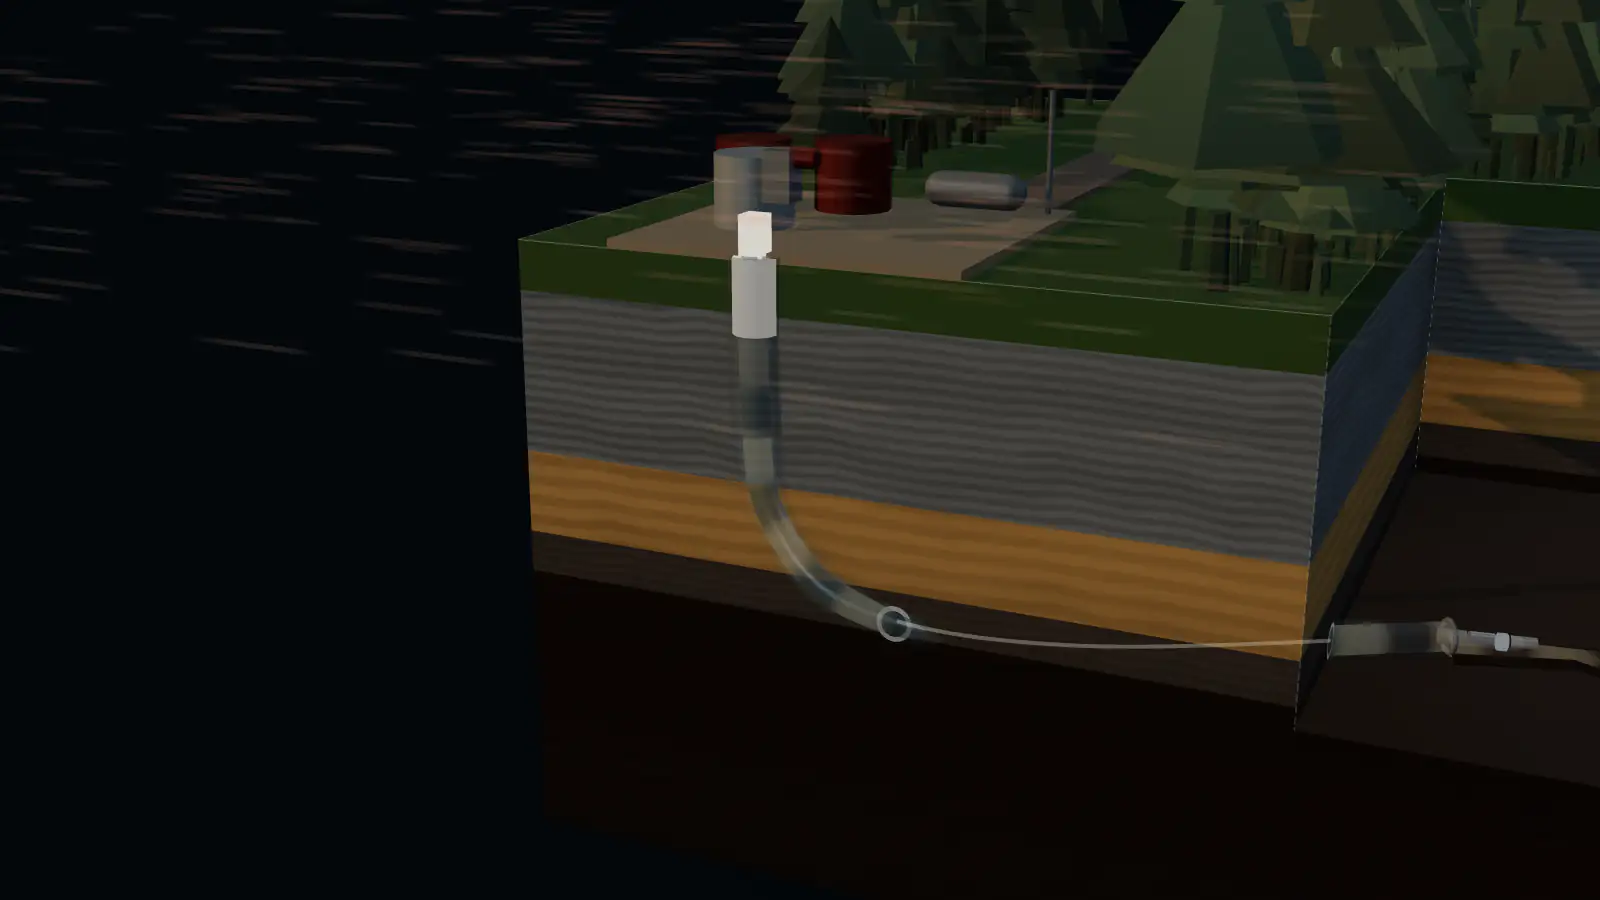
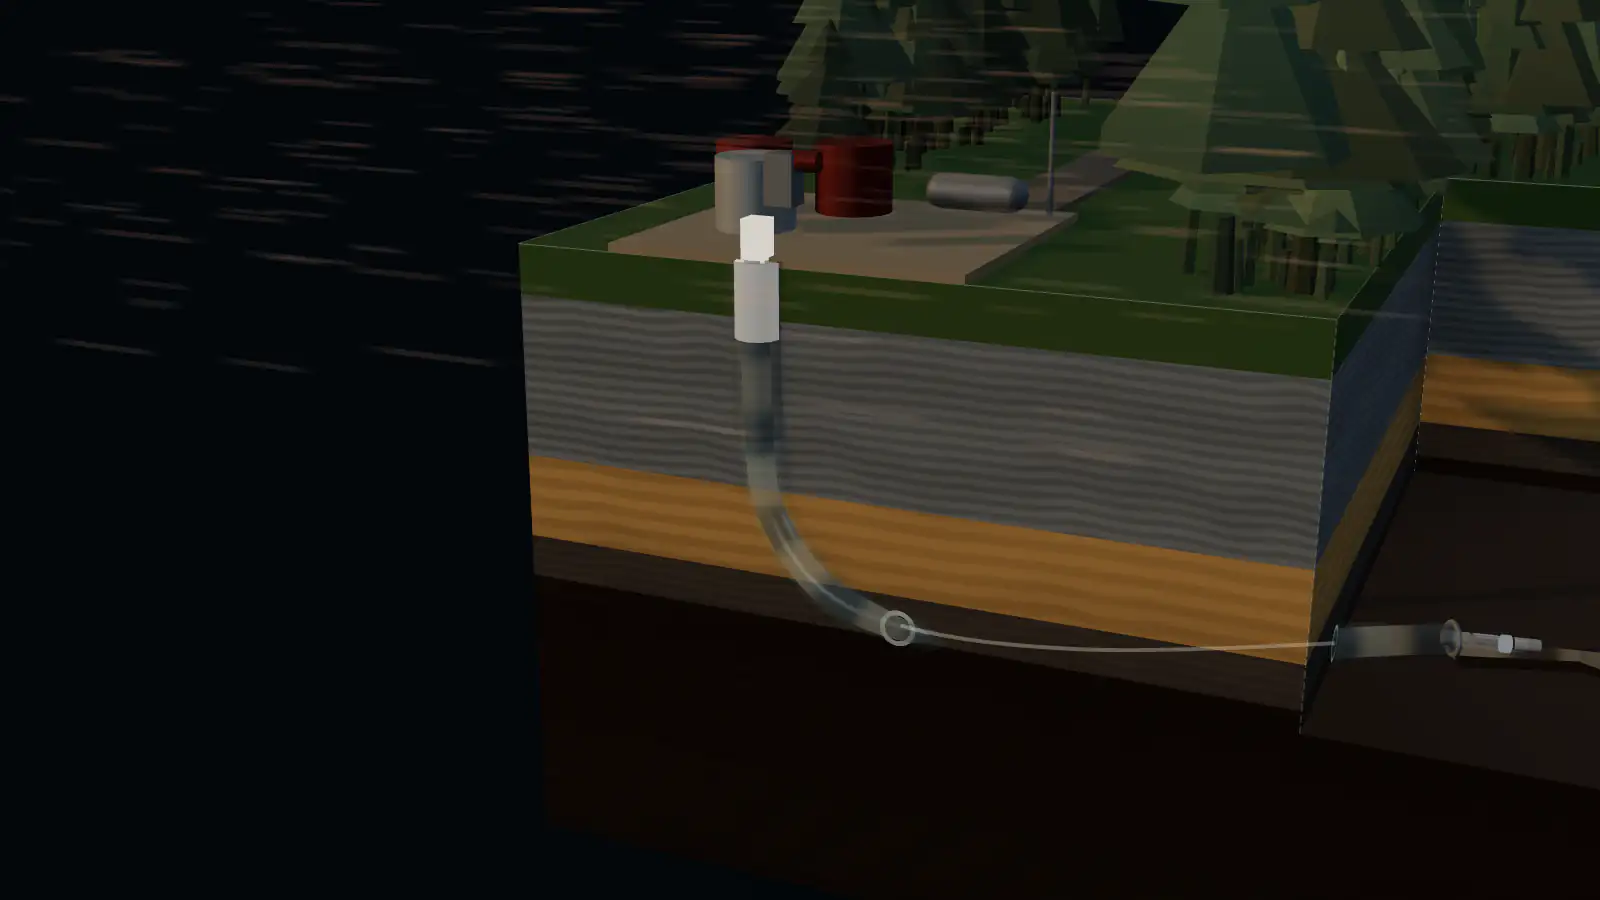
fix(world): round-7 — copy washes fade to zero inside their own box (the radial's ending shape was still 0.3 at the edge), Close the Circuit works on the reduced-motion path (DOM state machine, world twins take over when it arrives), the one-click CTA appears on the stills path, and coupling is hone

diff --git a/src/styles/world.css b/src/styles/world.css
@@ -58,9 +58,11 @@ html.world-on .contact-grid > div::before {
   inset: -40px -180px -56px -48px;
   z-index: -1;
   border-radius: 0;
-  background:
-    linear-gradient(to right, rgba(3, 7, 11, 0.62) 0, rgba(3, 7, 11, 0.6) 55%, rgba(3, 7, 11, 0) 100%),
-    linear-gradient(to bottom, rgba(3, 7, 11, 0) 0, rgba(3, 7, 11, 0.32) 12%, rgba(3, 7, 11, 0.32) 84%, rgba(3, 7, 11, 0) 100%);
+  /* ONE radial that fades in every direction. Two stacked linear gradients looked feathered on the axis each one
+     ran along, but the vertical layer carried flat alpha to the box's right edge — a 14–25 unit luminance step in
+     one pixel, straight down the render (round 7). A radial has no edge to step at. */
+  background: radial-gradient(72% 88% at 26% 50%,
+    rgba(3, 7, 11, 0.7) 0%, rgba(3, 7, 11, 0.6) 45%, rgba(3, 7, 11, 0.22) 78%, rgba(3, 7, 11, 0) 100%);
   -webkit-backdrop-filter: none;
   backdrop-filter: none;
 }
@@ -179,8 +181,9 @@ html.world-on .site-footer { padding-top: 28px; padding-bottom: 28px; }
 /* Header "Check your well fit": appears once the header has scrolled (desktop), hard-cut arrival at #contact. */
 .nav-fit { display: none; }
 @media (min-width: 1101px) {
-  html.world-on .site-header[data-scrolled] .nav-fit { display: inline-flex; align-items: center; gap: 8px; margin-right: 14px; padding: 9px 14px; border: 1px solid var(--ember); border-radius: 999px; color: var(--ember); font: 600 12px/1 "IBM Plex Mono", ui-monospace, monospace; letter-spacing: 0.08em; text-transform: uppercase; text-decoration: none; transition: background 200ms ease, color 200ms ease; }
-  html.world-on .site-header[data-scrolled] .nav-fit:hover, html.world-on .site-header[data-scrolled] .nav-fit:focus-visible { background: var(--ember); color: var(--void); outline: none; }
+  html.world-on .site-header[data-scrolled] .nav-fit, html.stills-on .site-header[data-scrolled] .nav-fit { display: inline-flex; align-items: center; gap: 8px; margin-right: 14px; padding: 9px 14px; border: 1px solid var(--ember); border-radius: 999px; color: var(--ember); font: 600 12px/1 "IBM Plex Mono", ui-monospace, monospace; letter-spacing: 0.08em; text-transform: uppercase; text-decoration: none; transition: background 200ms ease, color 200ms ease; }
+  html.world-on .site-header[data-scrolled] .nav-fit:hover, html.world-on .site-header[data-scrolled] .nav-fit:focus-visible,
+  html.stills-on .site-header[data-scrolled] .nav-fit:hover, html.stills-on .site-header[data-scrolled] .nav-fit:focus-visible { background: var(--ember); color: var(--void); outline: none; }
 }
 /* Anchor arrival = hard cut with a 240 ms cross-fade of the canvas (spec §5: never a forced fly-through). */
 html.world-on { scroll-behavior: auto; } /* anchors jump; the canvas fade covers the cut */
@@ -322,7 +325,7 @@ html.world-on .journey-icon span, html.stills-on .journey-icon span { background
 /* Phones: the local scrims' negative insets stay inside the viewport (a -28 px bleed on a flush block widened the
    document by 28 px — round 3). */
 @media (max-width: 820px) {
-  html.world-on .section-intro::before, html.world-on .insight-head::before, html.world-on .drill-fallback-head::before, html.world-on .contact-grid > div::before { inset: -14px 0 -20px 0; background: linear-gradient(to bottom, rgba(3, 7, 11, 0) 0, rgba(3, 7, 11, 0.62) 9%, rgba(3, 7, 11, 0.62) 88%, rgba(3, 7, 11, 0) 100%); }
+  html.world-on .section-intro::before, html.world-on .insight-head::before, html.world-on .drill-fallback-head::before, html.world-on .contact-grid > div::before { inset: -14px 0 -20px 0; background: radial-gradient(86% 74% at 50% 50%, rgba(3, 7, 11, 0.74) 0%, rgba(3, 7, 11, 0.66) 48%, rgba(3, 7, 11, 0.24) 80%, rgba(3, 7, 11, 0) 100%); }
 }
 @media (max-width: 820px) {
   html.world-on .drill-fallback ul { grid-template-columns: minmax(0, 1fr); } /* one column: a 3-up grid widened the document at 390 (round 3; placed after the desktop rule it overrides) */

diff --git a/src/ui/signal.js b/src/ui/signal.js
@@ -43,6 +43,22 @@ export function mountSignal() {
     digitsShown = false;
   }
 
+  // DOM-only fallback so the lesson works on the stills path too. The Close-the-Circuit beat is a state machine
+  // about voltage, not about three.js: on the reduced-motion / no-WebGL page the two references and the separation
+  // slider used to render as dead controls under an aria-live caption describing a state nobody could reach
+  // (round 7). This stands in for `circuit` when there is no world; the world path overwrites it in attach().
+  function makeDomCircuit() {
+    const st = { wellhead: false, ground: false, closed: false };
+    let sep = stakeRange ? Number(stakeRange.value) / 100 : 0.6;
+    return {
+      state: st,
+      get sep() { return sep; },
+      placeStake(t) { sep = Math.max(0, Math.min(1, t)); },
+      updateLoop() {},
+      set(next) { Object.assign(st, next); st.closed = st.wellhead && st.ground && sep > 0.06; },
+    };
+  }
+
   function reflect() {
     if (!circuit) return;
     const s = circuit.state;
@@ -67,8 +83,22 @@ export function mountSignal() {
     world && world.requestRender();
   }
 
+  // Wire the DOM controls at first paint on every path. If the world arrives, attach() aborts these listeners and
+  // re-registers the same controls as raycast twins, so the behaviour is identical and never doubled.
+  const domCtl = typeof AbortController !== 'undefined' ? new AbortController() : null;
+  const domOpts = domCtl ? { signal: domCtl.signal } : undefined;
+  function wireDom() {
+    if (!circuit) circuit = makeDomCircuit();
+    refWell.addEventListener('click', () => { circuit.set({ wellhead: !circuit.state.wellhead }); reflect(); }, domOpts);
+    refGround.addEventListener('click', () => { circuit.set({ ground: !circuit.state.ground }); reflect(); }, domOpts);
+    if (stakeRange) stakeRange.addEventListener('input', () => { circuit.placeStake(Number(stakeRange.value) / 100); circuit.updateLoop(); circuit.set({}); reflect(); }, domOpts);
+    reflect();
+  }
+
   async function attach(w) {
     world = w;
+    if (domCtl) domCtl.abort();   // hand the same controls over to the world's twins
+    circuit = null;
     // world module: dynamic import so the stills path never requests a world-chunk byte (spec §6)
     const { createCircuit } = await import('../world/circuit.js');
     circuit = createCircuit(w.island, w.THREE);
@@ -76,6 +106,7 @@ export function mountSignal() {
     const gate = [[2.6, 4.2]];
     I.register('ref-wellhead', { proxy: circuit.whProxy, twin: refWell, chapters: gate, apply3D() {}, onActivate() { circuit.set({ wellhead: !circuit.state.wellhead }); reflect(); } });
     I.register('ref-ground', { proxy: circuit.stakeProxy, twin: refGround, chapters: gate, apply3D() {}, onActivate() { circuit.set({ ground: !circuit.state.ground }); reflect(); } });
+
     // The 3D references toggle themselves; the interactions FSM's "active" state is not what we mean here, so
     // reflect aria-pressed from circuit state instead of the FSM's active flag.
     if (stakeRange) {
@@ -123,6 +154,7 @@ export function mountSignal() {
   function inChapter(w) { const p = w.state.exact; return p >= 2.6 && p < 4.2; }
   function overUI(e) { const t = e.target; return t && t.closest && Boolean(t.closest('a, button, input, select, textarea, label, summary, .rail, .fixed-layer, .chatfi-launcher, .chatfi-panel, .signal-stage, .qualifier')); }
 
+  wireDom(); // the lesson works from first paint, world or not
   if (window.__yotinWorld) attach(window.__yotinWorld);
   else document.addEventListener('world:first-frame', () => attach(window.__yotinWorld), { once: true });
   return { reflect };

diff --git a/src/world/wellBuilder.js b/src/world/wellBuilder.js
@@ -168,15 +168,26 @@ export function createWellBuilder(island, THREE, { scene = null } = {}) {
     dimHalo = over;
     if (witness && witness.material) witness.material.color.set(over ? WITNESS_WARM : WITNESS_COOL);
   }
+  // Coupling: the caption for a shallower landing says "inside casing — attenuated coupling", so the world has to
+  // show it. Steel around the emitter shorts a large part of the dipole; open hole couples straight into the
+  // formation. This is the ratio the candle and the field are scaled by (round 7, engineering-truth review).
+  const COUPLING = { 'below-pump': 0.45, 'outside-intermediate': 1 };
+  let coupling = 1;
   function applyLanding(landing, hasLength) {
     standoff.visible = Boolean(hasLength) || Boolean(landing);
     placeMarker(landing);
-    moveTool(landing === 'shallower' ? 'below-pump' : 'outside-intermediate');
+    const view = landing === 'shallower' ? 'below-pump' : 'outside-intermediate';
+    coupling = COUPLING[view];
+    moveTool(view);
   }
   function applyVerdict(verdict) {
     if (verdict === 'strong' || verdict === 'review') {
+      // The CANDLE answers "does WellFi fit" (the verdict), so it is not scaled by placement — the strong answer
+      // must never render dimmer than the weaker one. Coupling is a different claim and it belongs to the FIELD:
+      // a collar shorted by steel casing pushes a visibly weaker field into the formation, which is exactly what
+      // the caption "inside casing — attenuated coupling" says (round 7, engineering-truth review).
       target.boost = verdict === 'strong' ? 0.8 : 0.3; // base 0.12 → strong 0.92 (cyan), review 0.42 (sand warming)
-      island.field.swell();
+      island.field.swell(coupling);
       document.dispatchEvent(new CustomEvent('world:candle', { detail: { boost: target.boost } }));
     } else {
       target.boost = 0;

diff --git a/src/world/island.js b/src/world/island.js
@@ -58,8 +58,11 @@ export function buildIsland({ tier = 'high', view = DEFAULT_WELLFI_VIEW } = {}) 
   if (tier === 'high') {
     sun.castShadow = true;
     sun.shadow.mapSize.set(2048, 2048);
-    sun.shadow.camera.near = 1; sun.shadow.camera.far = 40;
-    sun.shadow.camera.left = -11; sun.shadow.camera.right = 11; sun.shadow.camera.top = 9; sun.shadow.camera.bottom = -9;
+    // The shadow box must cover the slab AND the long shadows a low sun throws off it: at ~18° elevation a 2.5-unit
+    // spruce lays a ~7.7-unit shadow, so a ±11 × ±9 box ended inside the visible ground and every receiver past its
+    // edge snapped to unshadowed — a razor-straight vertical brightness step across the world (round 7).
+    sun.shadow.camera.near = 0.5; sun.shadow.camera.far = 60;
+    sun.shadow.camera.left = -19; sun.shadow.camera.right = 19; sun.shadow.camera.top = 19; sun.shadow.camera.bottom = -19;
     sun.shadow.bias = -0.0008; sun.shadow.normalBias = 0.02; sun.shadow.radius = 3;
     terrain.strataMeshes.forEach((m) => { m.receiveShadow = true; m.castShadow = false; }); // receivers only: casting re-rendered ~40 k tris into the shadow map for a corner shadow the baked contact darkening already paints
     terrain.bench.receiveShadow = true;

diff --git a/src/world/field.js b/src/world/field.js
@@ -163,7 +163,9 @@ export function buildField({ collar, tier = 'high', color = '#22D3EE' } = {}) {
   }
   // Breath state: target swells to 1 on swell(), relaxes to idle (0.35) with a slow non-periodic wander.
   let breath = 0, breathTarget = 0.35, wander = 0;
-  function swell() { breath = Math.max(breath, 0.2); breathTarget = 1.0; }
+  // `strength` lets the caller say how well the emitter is coupled to the formation (1 = open hole; a collar
+  // shorted by steel casing swells the field visibly less — round 7).
+  function swell(strength = 1) { const t = Math.max(0.25, Math.min(1, strength)); breath = Math.max(breath, 0.2 * t); breathTarget = t; }
   function update(dt, elapsed) {
     uniforms.uTime.value = elapsed;
     // relax toward idle after a swell; idle wanders slowly with noise (no clock)
